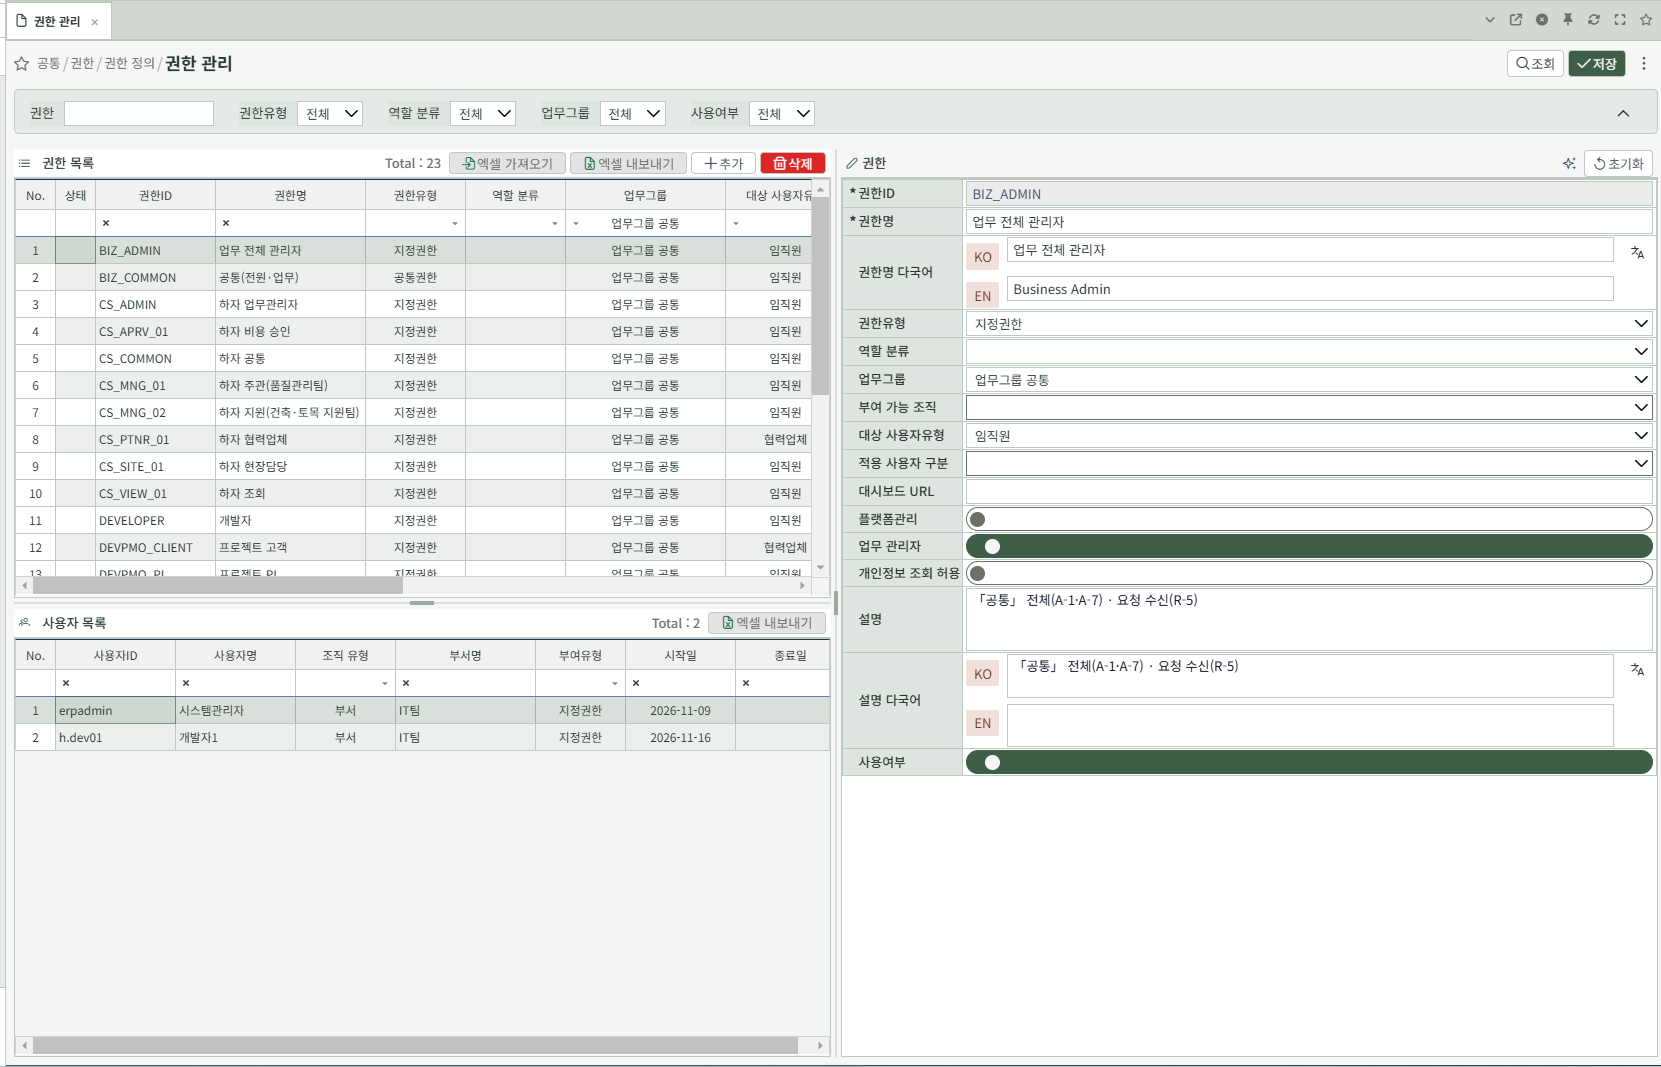
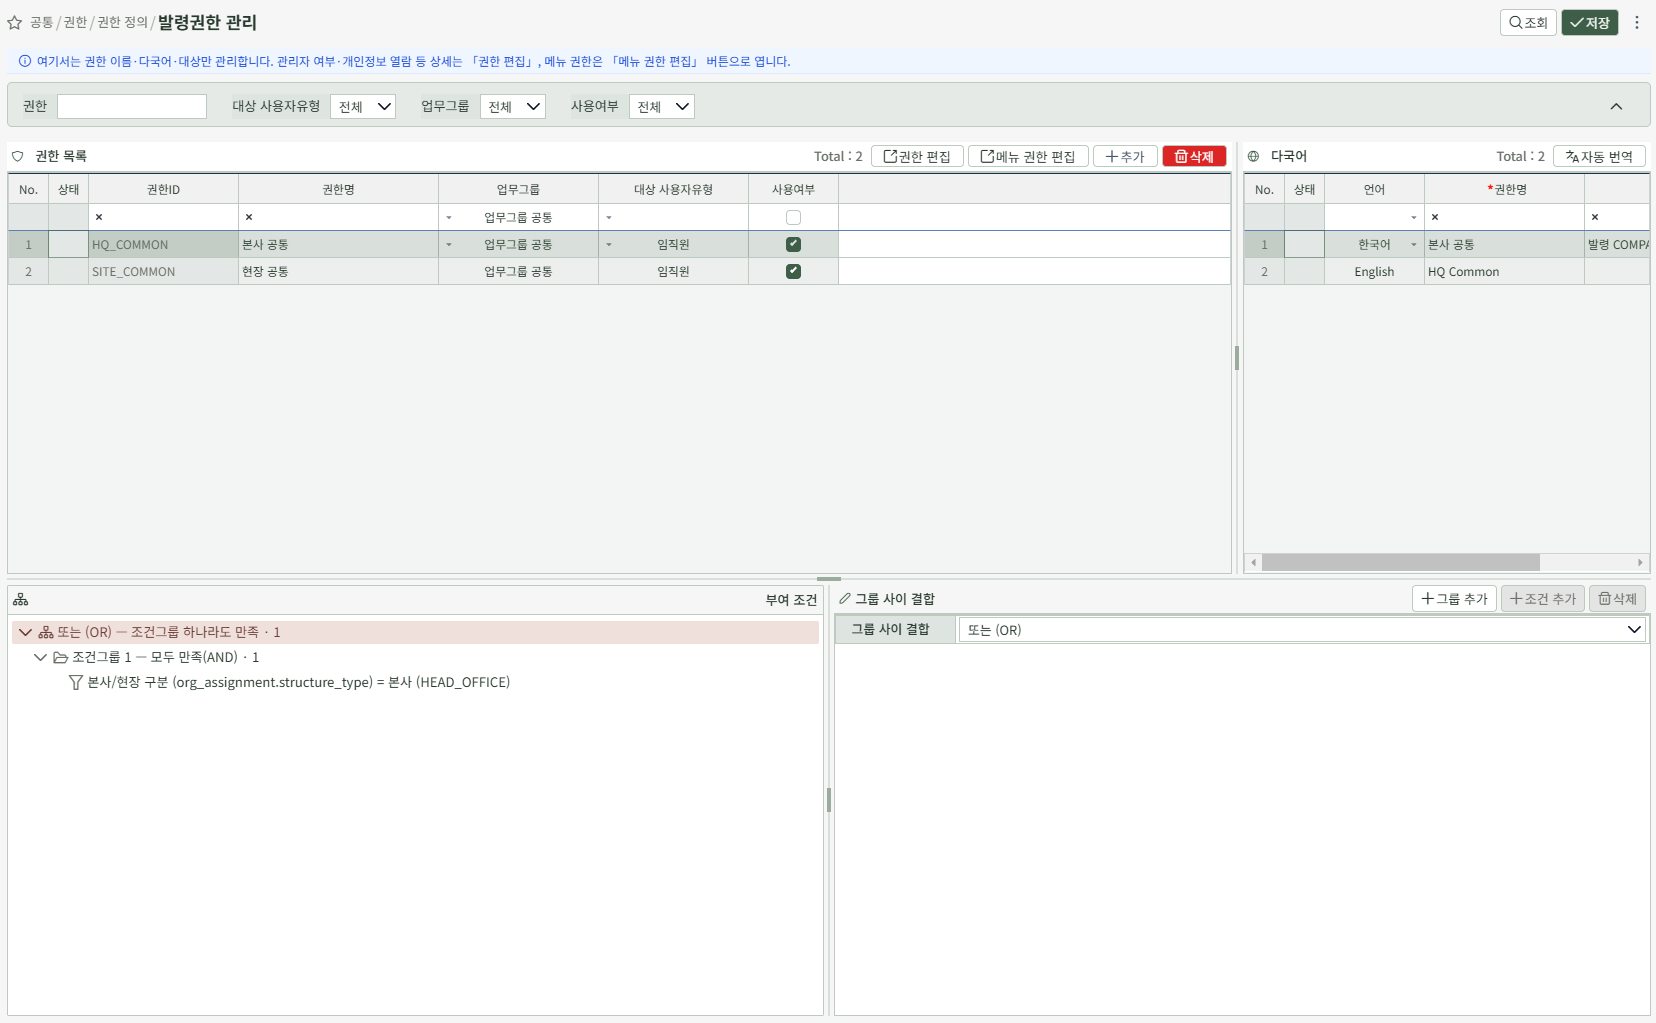
update

Changed region(s): [[0.0, 0.0, 1.0, 1.0]]

diff --git a/works/2026/202611/20261116/claude/04_role변경/01.md b/works/2026/202611/20261116/claude/04_role변경/01.md
@@ -1,8 +1,19 @@
-# 시나리오
-- 계정 h.dev01에는 role이 DEVELOPER만 있다.
-- h.dev01 계정에 role CS_MNG_01를 추가한다.
-- h.dev01으로 로그인된 웹브라우저를 새로고침하여 메뉴변경여부 확인.
-- h.dev01으로 다시 로그인하여 메뉴변경여부 확인.
-- h.dev01에 대하여 DEVELOPER, CS_MNG_01를 제거후 BIZ_ADMIN만 적용
-- h.dev01에 대하여 BIZ_ADMIN를 제거후 SYS_ADMIN만 적용
-- h.dev01에 대하여 SYS_ADMIN 제거후 DEVELOPER만 적용
+# 01 시나리오
+## 0101 계정 h.dev01에는 role이 DEVELOPER만 있다.
+-  [0301_권한관리](../03_role설정프로그램/0301_권한관리/0301_권한관리.md)보다는  [0304_권한-사용자매핑](../03_role설정프로그램/0304_권한-사용자매핑/0304_권한-사용자매핑.md)와 [0305_사용자-권한매핑](../03_role설정프로그램/0305_사용자-권한매핑/0305_사용자-권한매핑.md)에서 확인이 유리하다.
+## 0102 h.dev01 계정에 role CS_MNG_01를 추가한다.
+## 0103 h.dev01으로 로그인된 웹브라우저를 새로고침하여 메뉴변경여부 확인.
+## 0104 h.dev01으로 다시 로그인하여 메뉴변경여부 확인.
+## 0105 h.dev01에 대하여 DEVELOPER, CS_MNG_01를 제거후 BIZ_ADMIN만 적용
+## 0106 h.dev01에 대하여 BIZ_ADMIN를 제거후 SYS_ADMIN만 적용
+## 0107 h.dev01에 대하여 SYS_ADMIN 제거후 DEVELOPER만 적용
+
+---
+
+
+# 확인
+## 0201 계정 h.dev01의 role이 확인.
+- 사용자-권한매핑
+  ![alt text](src/0101.png)
+- 권한-사용자매핑에서 확인.
+  ![alt text](src/0101a.png)

diff --git a/works/2026/202611/20261116/claude/03_role설정프로그램/0304_권한-사용자매핑/0304_권한-사용자매핑.md b/works/2026/202611/20261116/claude/03_role설정프로그램/0304_권한-사용자매핑/0304_권한-사용자매핑.md
@@ -1,0 +1,6 @@
+- 메뉴경로 : 권한 > 권한 정의 > 권한 관리
+- 프로그램이름 : ca-role
+- 프로그램경로 : /page/ca-role
+- 화면
+
+  ![alt text](0304_권한-사용자매핑-화면.png)

diff --git a/works/2026/202611/20261116/claude/03_role설정프로그램/0305_사용자-권한매핑/0305_사용자-권한매핑.md b/works/2026/202611/20261116/claude/03_role설정프로그램/0305_사용자-권한매핑/0305_사용자-권한매핑.md
@@ -1,0 +1,6 @@
+- 메뉴경로 : 권한 > 권한 정의 > 권한 관리
+- 프로그램이름 : ca-role
+- 프로그램경로 : /page/ca-role
+- 화면
+
+  ![alt text](0305_사용자-권한매핑-화면.png)

diff --git a/works/2026/202611/20261116/claude/03_role설정프로그램/0301_권한관리/0301_권한관리.md b/works/2026/202611/20261116/claude/03_role설정프로그램/0301_권한관리/0301_권한관리.md
@@ -8,4 +8,7 @@
 
 ---
 
- - 비고 
+
+# 비고
+## 메모
+- 권한항목 관리가 주요기능(그리드-상세폼)이고 사용자목록은 단순조회이다.
